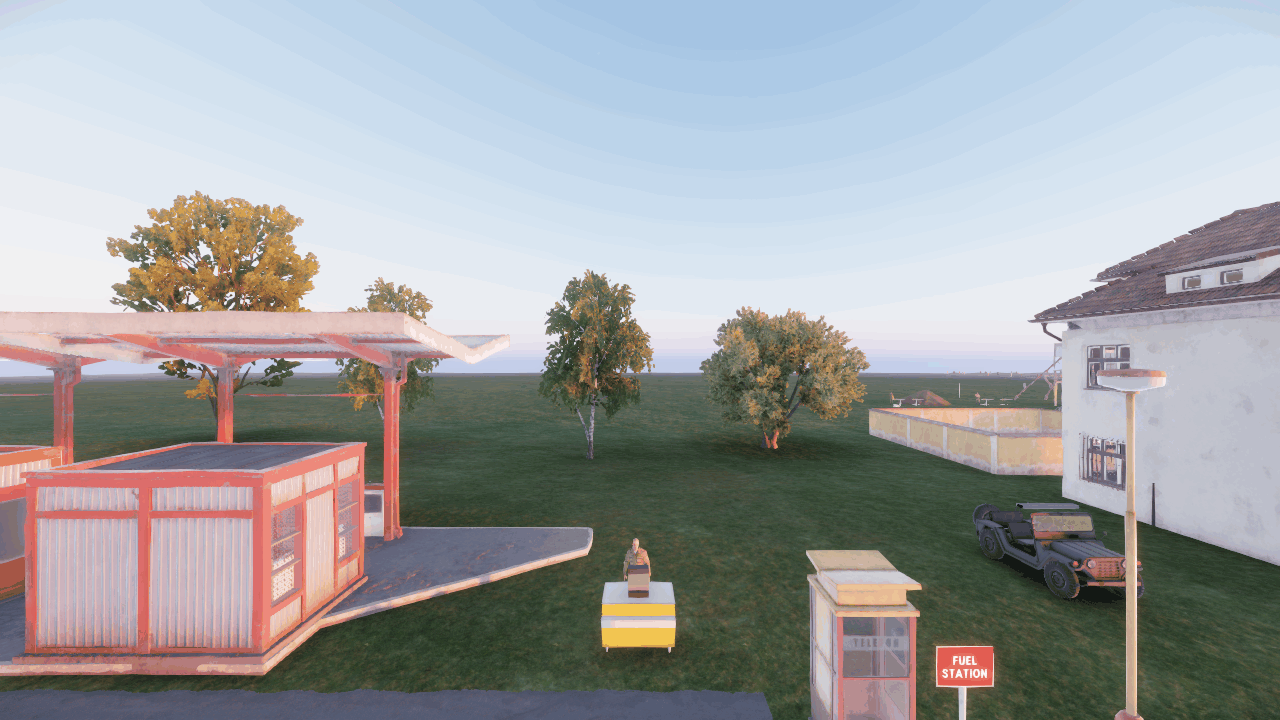
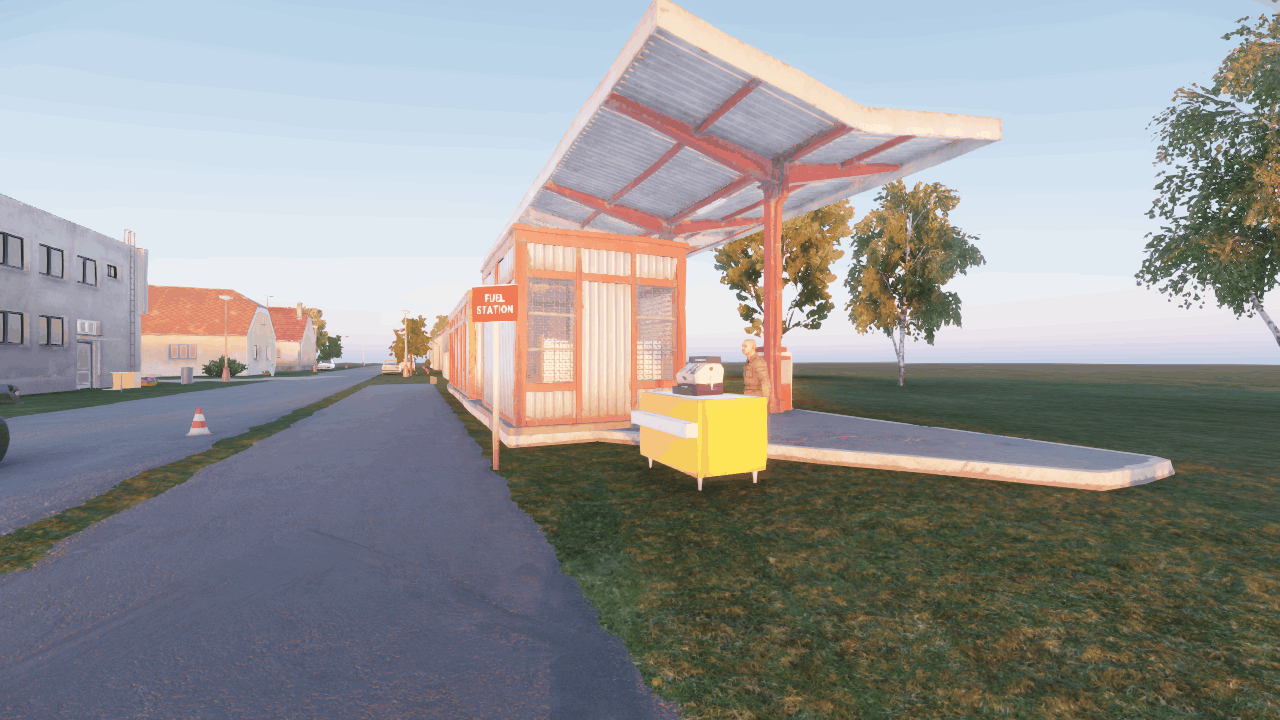
Fuel station: till, clerk, sign and phone moved to the kiosk; closer street-side wide

diff --git a/docs/playtest.md b/docs/playtest.md
@@ -172,5 +172,5 @@ sentence that names a place makes it a prompt.
 - **QA reports:** [playtest/rc-2026-11-08.md](playtest/rc-2026-11-08.md) and
   [playtest/qa-2026-11-08.md](playtest/qa-2026-11-08.md).
 - **Shot picker (dev tooling, issue 515).** `tools\cli shots area hospital --pick` takes its wide from the area's `front` heading in `agent-box/areas.json` and scores each candidate by raycast; `--wide-only` skips the entity checks and close-ups. Scores are in `tmp/shots/<area>/index.json` (`wideCandidates`, `shots[].frame`).
-- **Fuel station (area 5).** The till (rob it with the `Rob the till` action, reward 150) is on the counter at (259, 241.2) under the canopy; the clerk stands behind it facing the street. The fuel payphone is at (255.5, 244). Try it with `session.mjs` witness-proof or the `crime/rob-reward` test.
+- **Fuel station (area 5).** The till (rob it with the `Rob the till` action, reward 150) is on the counter at (263.2, 240.4) beside the kiosk wall; the clerk stands behind it facing the street. The fuel payphone is at (256.5, 237) and the FUEL STATION sign at the kiosk corner (264.6, 242.7). The pumps are the map station's own (x 268 and 279, z 235). Try it with `session.mjs` witness-proof or the `crime/rob-reward` test.
 - **Police station look (polish pass 6).** The post is the loggia of the police villa (233, 239); the duty desk, armory cabinet, armory store and evidence locker stand along its back wall with the door kept clear, the wanted and dispatch boards stand on the lawn facing the main street, and the payphone, a bin and a flowerpot stand on the front lawn. No setup needed; walk up from the main street.
